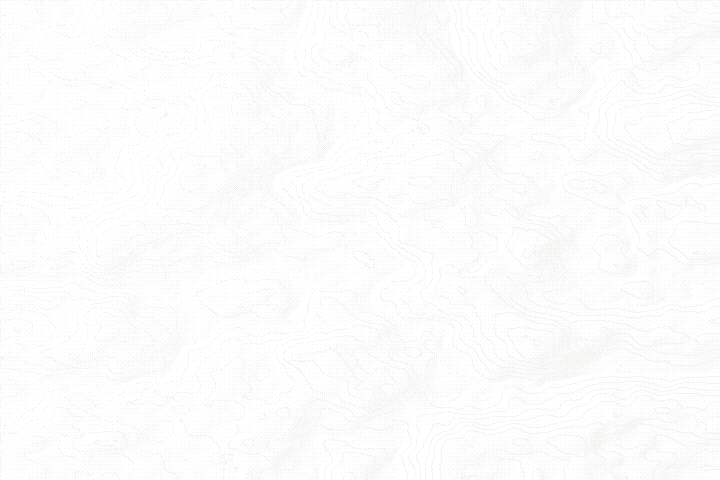
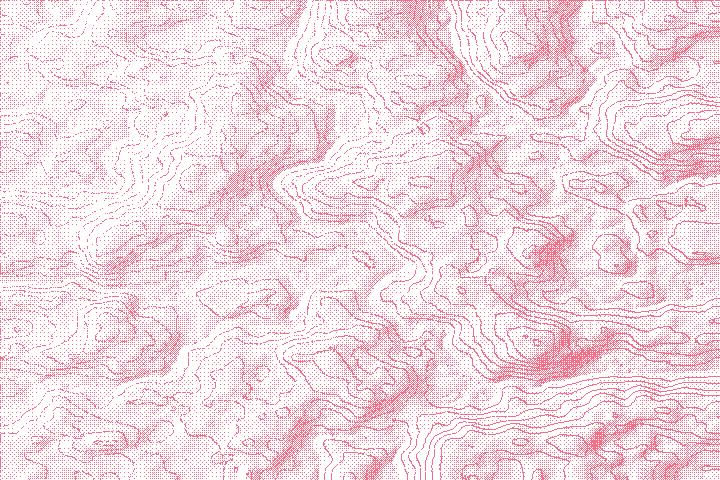
About takes its own page accent (rose)
Pages after Creations get one accent each. About is the pilot: `data-accent="about"` on the page root redefines every cyan token on that element, with a paper variant. The backdrop, header band and section washes are redrawn in the same ink (PAGE_ACCENTS in generate.py); each dither mask is unchanged. Art regenerated under existing names is stamped with ?v= because /naos/* is cached for a week. Hard-coded cyan and teal in About's path (text-shadow, paper-card state labels, CTA hover, halo, ripples, ground) is overridden in about.css.

Home, Creations and the games keep cyan. Studies, Timeline, History and Blog are proposed values only.

Changed region(s): [[0.0, 0.0, 1.0, 1.0]]

diff --git a/app/about/about.css b/app/about/about.css
@@ -169,3 +169,16 @@ html[data-xition="hold"] .about .about-id { animation: none; opacity: 0; }
     .about .about-id, .about .about-id *, .about .about-id::before, .about .about-id::after { animation: none !important; }
 }
 
+
+/* ---- Page accent: rose (data-accent="about" in camino.tokens.css). The colour is in the tokens; these rules cover the
+   places that still hard-code cyan or teal, the art tints that are not tokens, and About's own washes. ---- */
+.ctos.about .cm-h2 { text-shadow: -.035em 0 rgba(255, 70, 90, .32), .035em 0 rgba(var(--cm-accent-rgb), .32); }
+.ctos.about .cm-card[data-tone="paper"] .cm-state { color: var(--cm-accent-on-light); }
+.ctos.about .cta-b.a:hover { background: color-mix(in srgb, var(--cm-cyan) 80%, #fff); }
+.ctos.about .naos-halo { background: radial-gradient(circle, rgba(var(--cm-accent-rgb), .5) 0 30%, transparent 34%) 0 0 / 6px 6px; }
+.ctos.about .naos-ripple { background: radial-gradient(circle, rgba(var(--cm-accent-rgb), .7) 0 30%, transparent 34%) 0 0 / 6px 6px; }
+.ctos.about .naos-backdrop-ground { background: radial-gradient(circle, rgba(var(--cm-accent-rgb), .16) 0 30%, transparent 34%) 0 0 / 6px 6px; }
+.ctos.about .cm-section.ruled::before { background-image: url("/naos/wash-about-a.webp?v=f44ba726"); }
+.ctos.about .cm-section.ruled:nth-of-type(4n+2)::before { background-image: url("/naos/wash-about-b.webp?v=ce236a52"); }
+.ctos.about .cm-section.ruled:nth-of-type(4n+3)::before { background-image: url("/naos/wash-about-c.webp?v=9377091b"); }
+.ctos.about .cm-section.ruled:nth-of-type(4n)::before { background-image: url("/naos/wash-about-d.webp?v=242715b9"); }

diff --git a/app/camino/camino.tokens.css b/app/camino/camino.tokens.css
@@ -135,3 +135,30 @@
     scroll-behavior: auto !important;
   }
 }
+
+/* ==========================================================================
+   Page accents (2026-11-17). Pages after Creations each take one colour; Home, Creations and the games keep cyan.
+   A page sets data-accent="<page>" on its .ctos root. Every token below is then redefined on that same element, so the
+   page recolours without editing its components. The derived values are repeated here because a custom property built
+   from var(--cm-cyan) resolves where it is declared, not where it is used. Art is drawn in the same ink
+   (scripts/naos-art/generate.py, PAGE_ACCENTS). Paper values are darker, so accent text reaches 4.5:1 on paper and
+   UI edges 3:1. Adding a page: one block here, one PAGE_ACCENTS line, its art pieces, its overrides in the page CSS.
+   ========================================================================== */
+[data-accent="about"] {
+  --cm-cyan:       #f0708a;
+  --cm-cyan-ink:   #031417;
+  --cm-cyan-deep:  #4a0d1d;
+  --cm-cyan-wash:  rgba(240, 112, 138, .12);
+  --cm-accent-rgb: 240, 112, 138;
+  --cm-accent-on-light: #d9173e;
+  --cm-glow:       0 0 20px rgba(240, 112, 138, .25);
+  --cm-ctos-edge-live: color-mix(in srgb, var(--cm-cyan) 70%, transparent);
+}
+[data-theme="paper"] [data-accent="about"] {
+  --cm-cyan:       #d9173e;
+  --cm-cyan-ink:   #ffffff;
+  --cm-cyan-deep:  #fde8ee;
+  --cm-cyan-wash:  rgba(217, 23, 62, .1);
+  --cm-accent-rgb: 217, 23, 62;
+  --cm-glow:       0 0 20px rgba(217, 23, 62, .2);
+}

diff --git a/app/about/page.tsx b/app/about/page.tsx
@@ -28,9 +28,9 @@ export default function AboutPage() {
     const daysToGrad = daysUntil(KEY_DATES.graduation, nowMs);
 
     return (
-        <div className="ctos about" data-entrance="lean">
-            <NaosBackdrop src="/naos/bg-about.webp" />
-            <ArtPreload name="band-seam" />
+        <div className="ctos about" data-accent="about" data-entrance="lean">
+            <NaosBackdrop src="/naos/bg-about.webp?v=ed13060f" />
+            <ArtPreload name="band-seam" v="8ec2b08e" />
             <header className="cm-head about-head" id="top">
                 <div className="cm-grid-bg" aria-hidden="true" />
                 <div className="cm-persp" aria-hidden="true" />

diff --git a/components/cm/art-preload.tsx b/components/cm/art-preload.tsx
@@ -9,6 +9,7 @@
  */
 export type NaosArtName = "band-track" | "band-rail" | "band-seam" | "wash-a" | "wash-b" | "wash-c" | "wash-d";
 
-export function ArtPreload({ name }: { name: NaosArtName }) {
-    return <link rel="preload" as="image" href={`/naos/${name}.webp`} />;
+/** `v` is the content stamp for art that was regenerated under the same name (see docs/naos.md, Dithered art). */
+export function ArtPreload({ name, v }: { name: NaosArtName; v?: string }) {
+    return <link rel="preload" as="image" href={`/naos/${name}.webp${v ? `?v=${v}` : ""}`} />;
 }

diff --git a/components/cm/naos-art.css b/components/cm/naos-art.css
@@ -143,7 +143,7 @@
   }
 }
 .ctos.st-page .cm-head::before { background-image: url("/naos/band-rail.webp"); }
-.ctos.about .cm-head::before { background-image: url("/naos/band-seam.webp"); }
+.ctos.about .cm-head::before { background-image: url("/naos/band-seam.webp?v=8ec2b08e"); }
 @media (max-width: 760px) {
   .ctos .cm-head::before { background-size: 480px 96px; height: 96px; opacity: .3; }
 }

diff --git a/scripts/naos-art/generate.py b/scripts/naos-art/generate.py
@@ -29,10 +29,15 @@ def dither(intensity, ids):
     return ink
 
 
-def save_1bit(ink, path):
-    idx = ink.astype(np.uint8)
+def hex_ink(h):
+    """'#f0708a' -> (240, 112, 138)."""
+    return tuple(int(h[i:i + 2], 16) for i in (1, 3, 5))
+
+
+def save_1bit(mask, path, colour=INK):
+    idx = mask.astype(np.uint8)
     img = Image.fromarray(idx, "P")
-    pal = [0, 0, 0] + list(INK) + [0] * (256 - 2) * 3
+    pal = [0, 0, 0] + list(colour) + [0] * (256 - 2) * 3
     img.putpalette(pal[: 256 * 3])
     img.save(path, transparency=0, optimize=True)
     print("wrote", os.path.normpath(path), img.size, os.path.getsize(path), "bytes")
@@ -345,17 +350,29 @@ def section_wash(seed, angle=90, W=360, H=240, base=3):
 # `python3 generate.py bg-home band-track` rebuilds just those. Each piece is written as a 1-bit PNG and
 # a lossless WebP (pixel-identical, about 15 to 20 percent smaller); pages point at the WebP.
 # ---------------------------------------------------------------------------------------------
+# Page accents. A page after Creations draws its own art in one ink: the backdrop, the header band and the section
+# washes. Each entry is the ink for that page, in dark theme (paper uses the same art). Keep these hexes in step with
+# the [data-accent] block at the end of app/camino/camino.tokens.css. Add a page by adding one line here, then its
+# pieces in PIECES, then the data-accent block.
+PAGE_ACCENTS = {"about": "#f0708a"}
+
 PIECES = {
     "islands": (islands, {}),
     "assembly": (assembly, {}),
-    **{f"bg-{name}": (backdrop, cfg) for name, cfg in BACKDROPS.items()},
+    **{f"bg-{name}": (backdrop, cfg) for name, cfg in BACKDROPS.items() if name not in PAGE_ACCENTS},
+    **{f"bg-{page}": (backdrop, BACKDROPS[page], ink) for page, ink in PAGE_ACCENTS.items()},
     "band-track": (band, dict(seed=101, variant="track")),
     "band-rail": (band, dict(seed=113, variant="rail")),
-    "band-seam": (band, dict(seed=127, variant="seam")),
+    "band-seam": (band, dict(seed=127, variant="seam"), PAGE_ACCENTS["about"]),
     "wash-a": (section_wash, dict(seed=201, angle=90)),
     "wash-b": (section_wash, dict(seed=213, angle=45)),
     "wash-c": (section_wash, dict(seed=227, angle=270)),
     "wash-d": (section_wash, dict(seed=239, angle=180)),
+    # About's own washes: the same shapes as wash-a..d, drawn in the About accent (naos.md, Dithered art).
+    "wash-about-a": (section_wash, dict(seed=201, angle=90), PAGE_ACCENTS["about"]),
+    "wash-about-b": (section_wash, dict(seed=213, angle=45), PAGE_ACCENTS["about"]),
+    "wash-about-c": (section_wash, dict(seed=227, angle=270), PAGE_ACCENTS["about"]),
+    "wash-about-d": (section_wash, dict(seed=239, angle=180), PAGE_ACCENTS["about"]),
 }
 
 
@@ -366,11 +383,13 @@ def save_webp(png_path):
 
 def build(names=None):
     os.makedirs(OUT, exist_ok=True)
-    for name, (fn, kwargs) in PIECES.items():
+    for name, entry in PIECES.items():
         if names and name not in names:
             continue
+        fn, kwargs = entry[0], entry[1]
+        colour = hex_ink(entry[2]) if len(entry) > 2 else INK
         png = os.path.join(OUT, f"{name}.png")
-        save_1bit(fn(**kwargs), png)
+        save_1bit(fn(**kwargs), png, colour)
         save_webp(png)
 
 

diff --git a/docs/naos.md b/docs/naos.md
@@ -30,7 +30,7 @@ Page CSS uses these tokens instead of raw px; display sizes (clamp or 26px and u
 Text colours: `--cm-fg` primary, `--cm-mute` secondary, `--cm-ctos-meta` meta (5.3:1 or better on panels), `--cm-dim`
 (`#66767f`) for ticks and disabled only. Fonts unchanged: Helvetica Neue/Arimo display, IBM Plex Mono for labels (already self-hosted).
 Accent stays `--cm-cyan #2fd8e8` (`--cm-cyan-ink` on cyan). Magenta `#ff2d8a` only for thin guide
-lines. One accent rule: cyan or white, never rainbow.
+lines. One accent per page: cyan on Home, Creations and the games; the pages after Creations take their own (see Page accents).
 
 ## Fonts
 Display: heavy grotesk (`--cm-display`), lowercase, tight tracking (-.04 to -.06em), line-height ~.86 on title cards.
@@ -102,6 +102,13 @@ Placement rules:
 - Never put `clip-path` or `mask` on a `data-rx` item (see the Creations hub note below).
 
 `games` and the Creations hub keep their own load-in choreography (see `app/camino/games.css` and `components/creations/creations.css`); their art comes from the same registry.
+
+## Page accents
+Home, Creations and the games use cyan. Each page after Creations (About now; Studies, Timeline, History and Blog are proposed) takes one accent, set as `data-accent="<page>"` on its `.ctos` root. The block at the end of `app/camino/camino.tokens.css` redefines every cyan token on that element (`--cm-cyan`, `-ink`, `-deep`, `-wash`, `--cm-glow`, `--cm-accent-rgb`, `--cm-accent-on-light`), and a paper variant sits under `[data-theme="paper"]`. Components need no edits.
+- Hard-coded cyan or teal left in shared CSS is overridden in the page CSS (About: `app/about/about.css`). Add one there when a new rule hard-codes a colour.
+- The art is drawn in the page ink: `PAGE_ACCENTS` in `scripts/naos-art/generate.py` (backdrop, header band, four washes). Regenerating keeps each dither mask; only the ink changes.
+- `/naos/*` is cached for a week, so art regenerated under an existing name carries `?v=<first 8 chars of sha1>` in every reference (`bg-about` in `app/about/page.tsx`, `band-seam` in `naos-art.css` and `ArtPreload`, `wash-about-*` in `about.css`). Update the stamp whenever the file changes.
+- Dark-theme inks are the site values. Paper variants are darker so text reaches 4.5:1 on paper and UI 3:1; the dark ground needs no change.
 
 ## Creations hub
 `/creations` is its own page look (`.ctos.cr-hub`, styles at the bottom of `components/creations/creations.css`): the magenta guide X is replaced by a scanline field and one cyan sweep on load, the assembly art fills the head behind the status card, and the head plays a once-only load-in (grid, art dithers in, card drops in, rows and bars follow). Hub cards reveal from alternating sides through the scrubbed engine. Do not add `clip-path` or `mask` to `data-rx` items: the engine's IntersectionObserver treats a fully clipped item as off screen and leaves it hidden.

diff --git a/docs/site/FEATURES.md b/docs/site/FEATURES.md
@@ -28,7 +28,7 @@ Current state of the site outside the three games with their own docs (Brasswork
 - Home `/`: hero, "Built in" (TypeScript, Three.js, JavaScript), featured work, live site stats, timeline preview, recent posts (teasers while the blog is empty).
 - Home "Play" section: under the hero, three cards for Brasswork, Starwright and Groundbreak. Each is themed by `data-game` (brass, fusion red and violet, golden-hour amber), with a padded plate around a UI-free capture of a built-up save, a genre panel, the game's blurb and three short feature panels. Stacks to two columns under 1024px and one under 768px. Images are static webp in `public/home/games`, lazy-loaded; no looping captures. Code: `components/home/games-showcase.tsx`, styles at the end of `components/home/home.css`.
 - Home "Play" band art: an animated dithered sprite scene fills the whole Play section behind the cards, one zone per card (nearest card wins, seams cross-fade in an 8x8 Bayer dither). Brasswork: brass gears meshing behind the card corners with sparks, a floating workshop island with a turning windmill and chimney steam, an expedition airship. Starwright: nebula, a star burning behind the card with orbiting planets, constellations drawing in, shooting stars, supernova rings. Groundbreak: golden-hour sky, skyline with flickering windows, a tower crane lifting beams onto a frame that grows a floor at a time, clouds, birds, the sun on the bay. One canvas at about 2 CSS px per art pixel (whole device pixels), 12 fps. Loads only when the section is within a screen and the page is idle: 7.5 KB gzip renderer plus 31 KB of lossless webp sheets; stops off screen and on hidden tabs; reduced motion draws one still frame; absolutely positioned, so no layout shift. Code: `components/home/games-band.tsx` (stub), `games-band-engine.ts`, `band-atlas.ts` (generated); art `public/home/band/*.webp` from `scripts/home-band/generate.py`.
-- About `/about`: dark cards, cyan top edge on live items, "Student", "Heading toward 2031", running stats, philosophy, education timeline, skills. On phones the profile card footer keeps its label and coordinates on one line each (`app/about/about.css`).
+- About `/about`: rose page accent (`data-accent="about"`, see naos.md Page accents): dark cards, accent top edge on live items, "Student", "Heading toward 2031", running stats, philosophy, education timeline, skills. On phones the profile card footer keeps its label and coordinates on one line each (`app/about/about.css`).
 - Studies `/studies` and `/studies/[slug]`: coursework explorer, education pathway, reading queue, per-course pages.
 - Timeline `/timeline`: milestones, live countdowns, journey to 2031. On phones (560px and under) milestone cards show title and date and open on tap (`.tl-hd-phone`, `.tl-ev[data-open]` in `app/timeline/timeline.css`).
 - History `/history`: commit history from GitHub, live.

diff --git a/docs/site/BACKLOG.md b/docs/site/BACKLOG.md
@@ -95,3 +95,4 @@ Slot for findings from the thread "Audit website code for simplification". That 
 - [x] GUESS-reveal-polish | M | animated miss and win reveals, streak readout, Unlimited unlock moment, flag round double shake removed, reduced motion respected | this PR
 - [x] SITE-motion-scale | M | one motion scale (easing, durations, lift and press travel) and one reduced-motion rule; buttons, chips, cards, home game cards and page shutters use it | this PR
 - [x] SITE-dead-knip | S | `knip.json` at the root: run `npx -y knip@5` for unused files, exports and deps. Removed the unused `getProjectAccentColor` and unexported unused gate and sound symbols. knip misses dynamic imports, so grep before deleting | this PR
+- [x] ART-page-accent-about | M | About takes its own rose accent (`data-accent`): tokens, backdrop, band and washes drawn in that ink, cache stamps; Studies, Timeline, History and Blog are proposed values in the PR, not built | this PR
